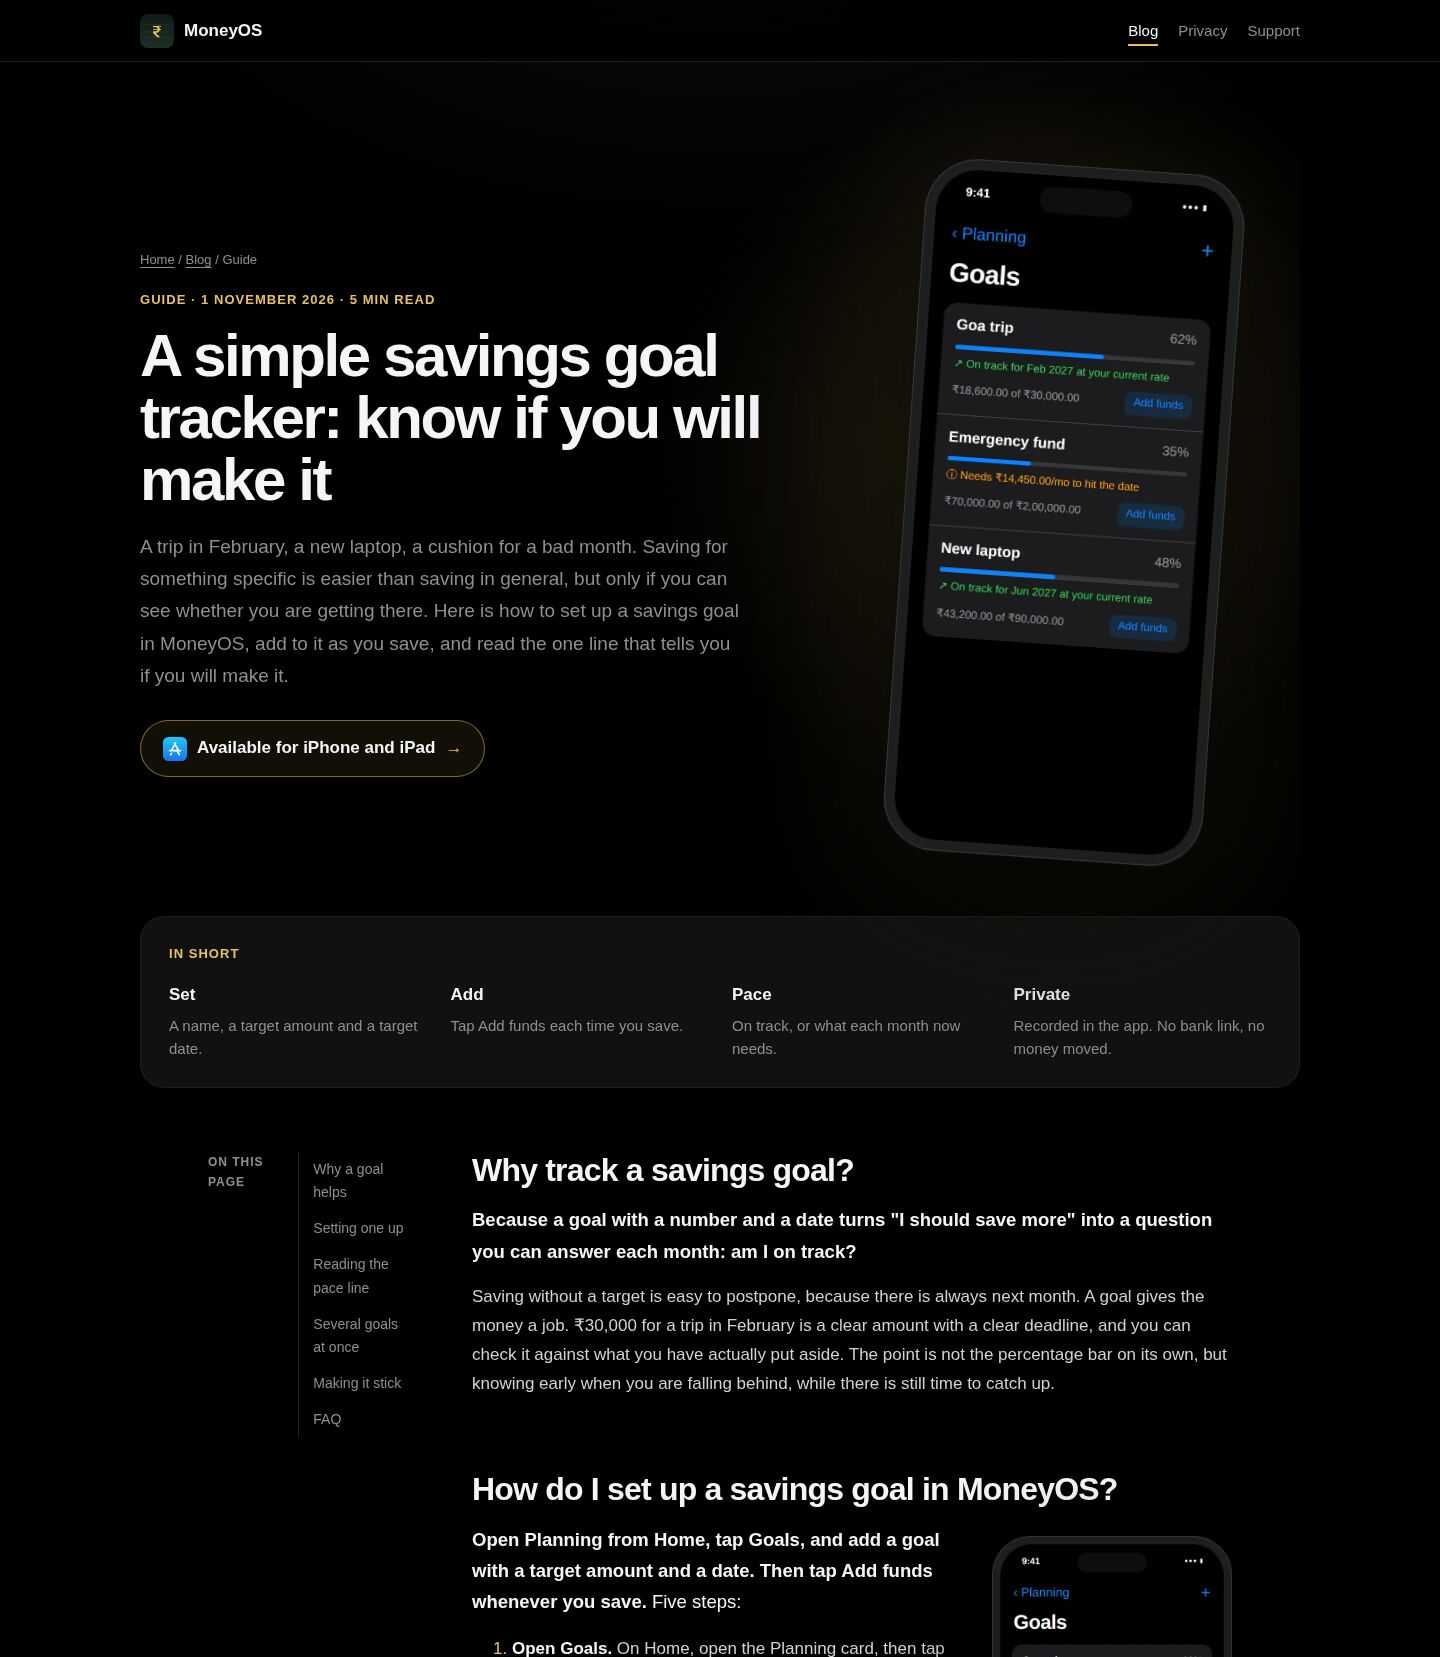
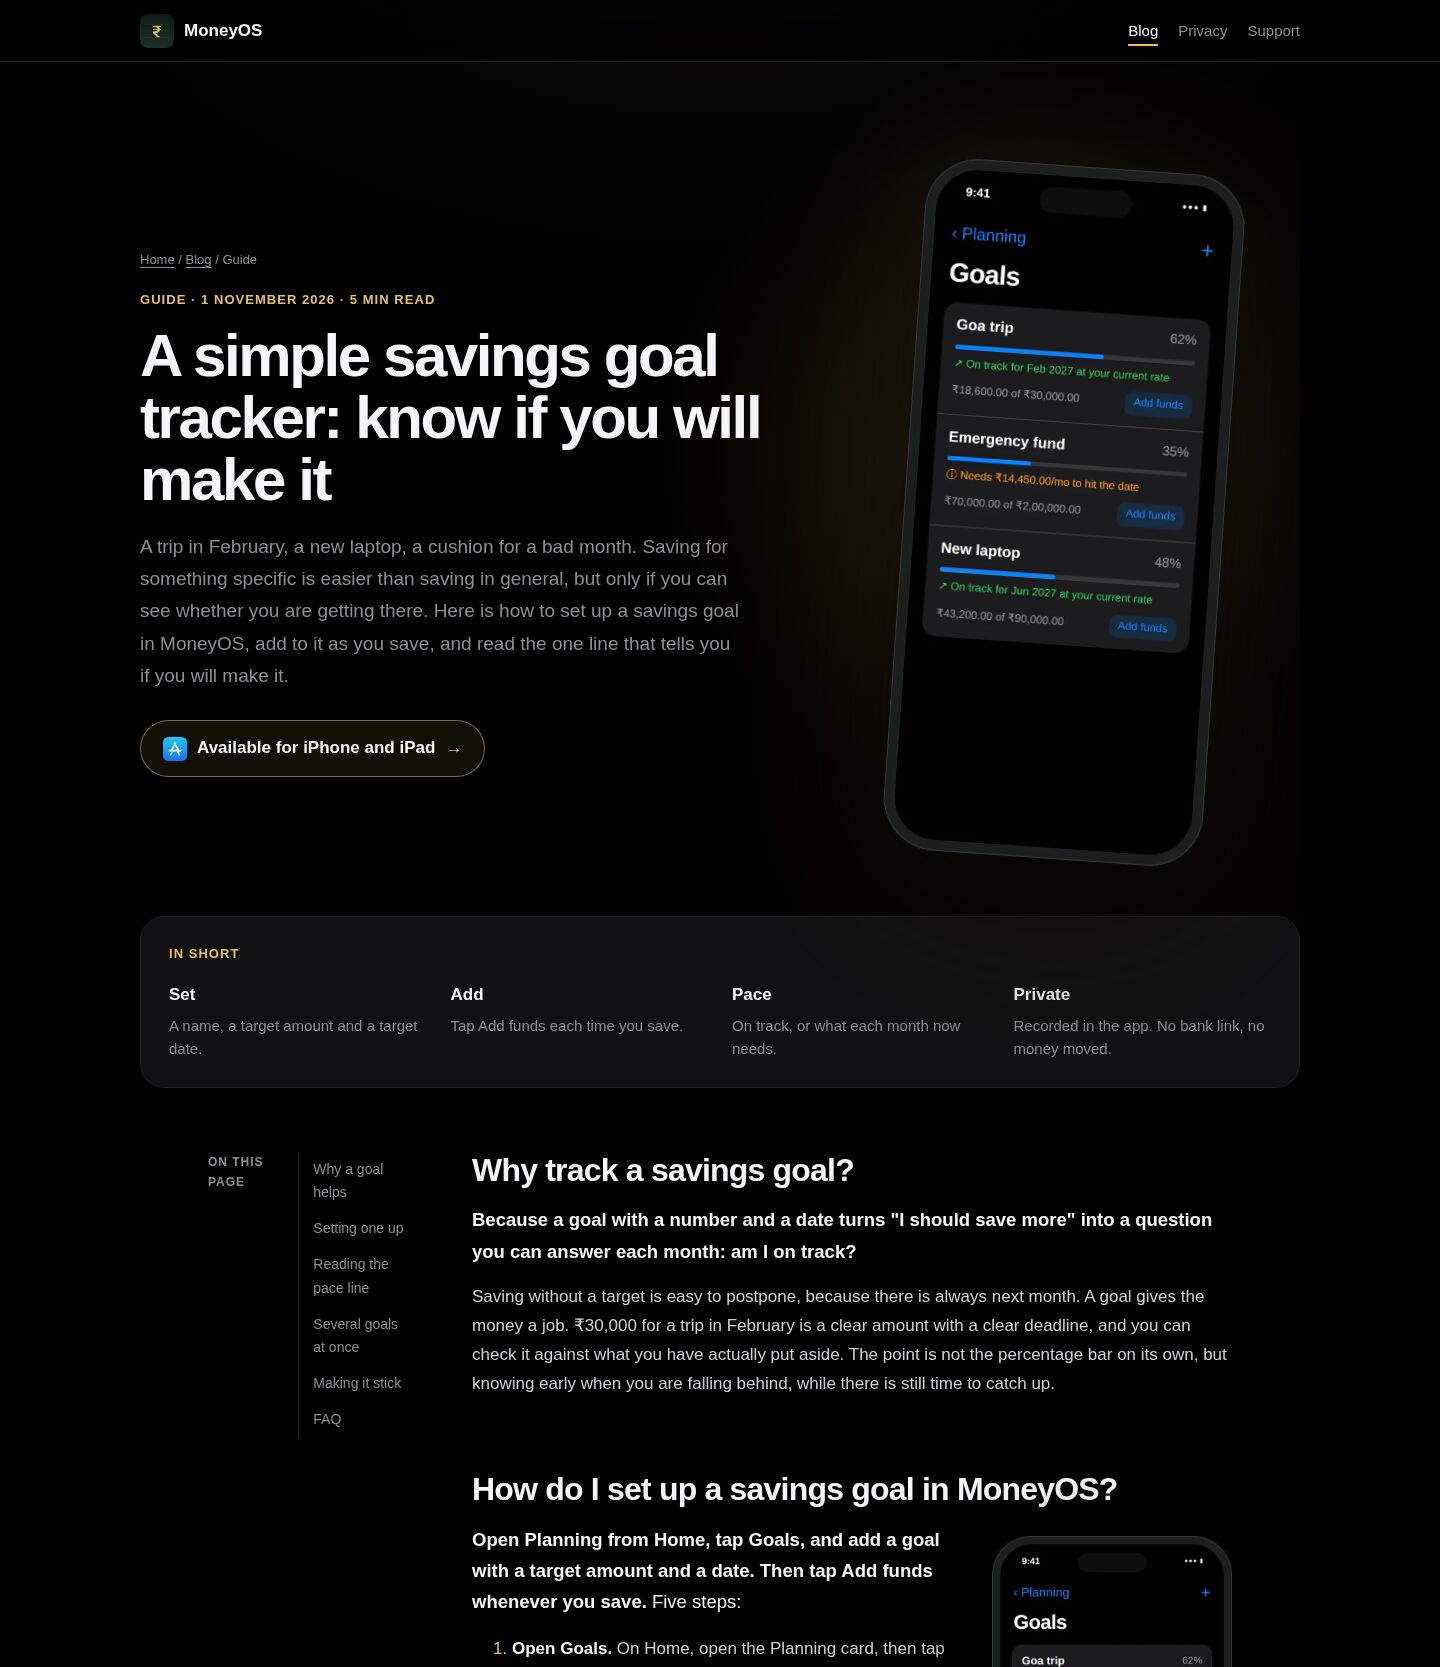
Goals draft: clarify where the goal count shows
Claude-Session: https://claude.ai/code/session_01YE2ofZLGiWgQhZvip5Uiy9

diff --git a/blog/savings-goal-tracker.html b/blog/savings-goal-tracker.html
@@ -284,7 +284,7 @@
       <h2 id="many">Can I save for several goals at once?</h2>
       <p class="answer"><strong>Yes. Goals not yet met come first, nearest target date first, so the
       one that needs attention soonest is always at the top.</strong></p>
-      <p>That top goal also appears on Home with what is left to go, and the Planning card shows how
+      <p>That top goal also appears on Home with what is left to go, and the Planning screen shows how
       many goals you have and how much of their combined targets is funded. Goals belong to the ledger
       you are in, so Personal, Family and Business can each have their own. Read more on <a
       href="separate-personal-business-expenses.html">separate ledgers</a>.</p>
